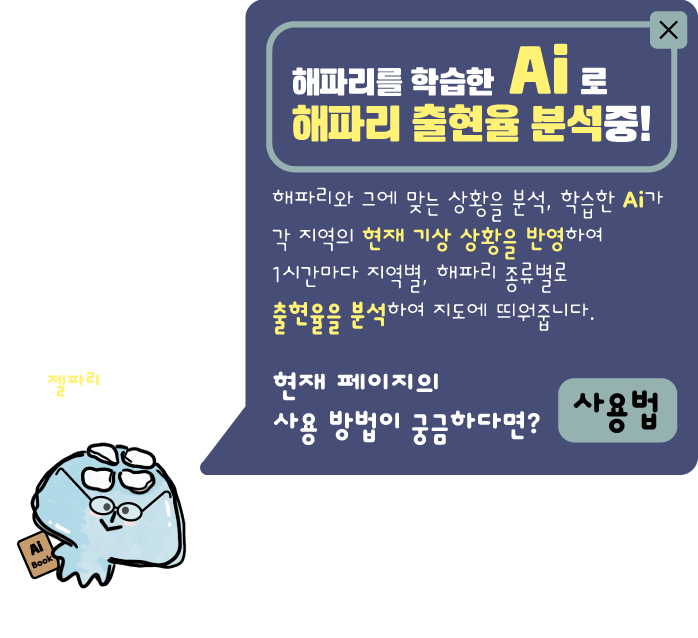
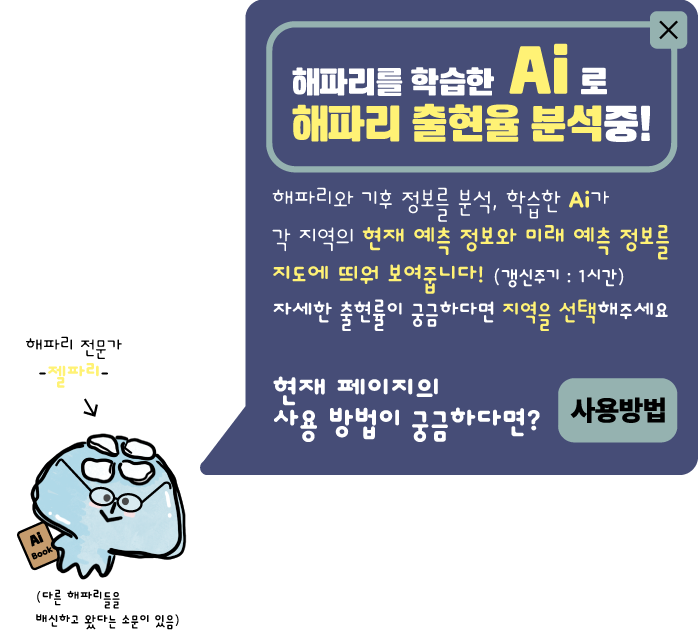
AI 로고 회전 추가, 이미지 수정

diff --git a/src/main/resources/static/css/main.css b/src/main/resources/static/css/main.css
@@ -326,11 +326,47 @@ div.help-high {
 }
 
 #help-jelly-small {
+    display: flex;
+    align-items: center; /* 세로 정렬 맞추기 */
+    gap: 8px; /* 이미지 간격 */
     position: absolute;
-    left:10px;
-    top:70px;
-    width:60%;
+    left: 10px;
+    top: 70px;
+    width: auto; /* 너비 자동 조정 */
 }
+
+#help-close-icon {
+    width: 60%; /* 기존 help_close 아이콘 크기 */
+}
+
+#rotating-ai-container {
+    position: relative;
+    width: 40px; /* 컨테이너 크기 */
+    height: 40px;
+}
+
+#static-ai-icon {
+    position: absolute;
+    top: 0;
+    left: 0;
+    width: 100%;
+    height: 100%;
+}
+
+@keyframes rotateAnimation {
+    0% { transform: rotate(0deg); }
+    100% { transform: rotate(360deg); }
+}
+
+#rotating-ai-icon {
+    position: absolute;
+    top: 0;
+    left: 0;
+    width: 100%;
+    height: 100%;
+    animation: rotateAnimation 2s linear infinite;
+}
+
 
 #help-modal {
     position:fixed;
@@ -430,4 +466,6 @@ div.help-high {
     background-color: white;
     cursor: pointer;
 }
+
+
 
